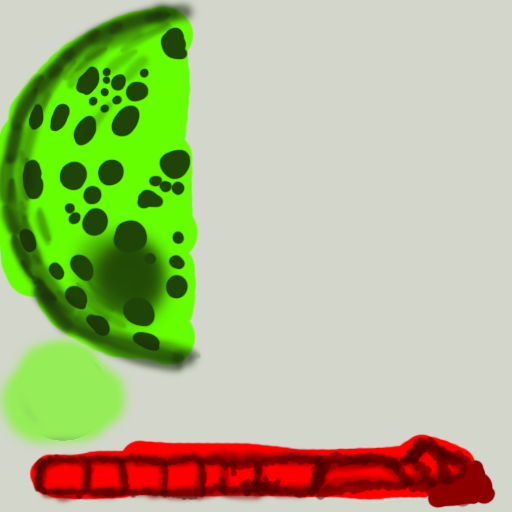
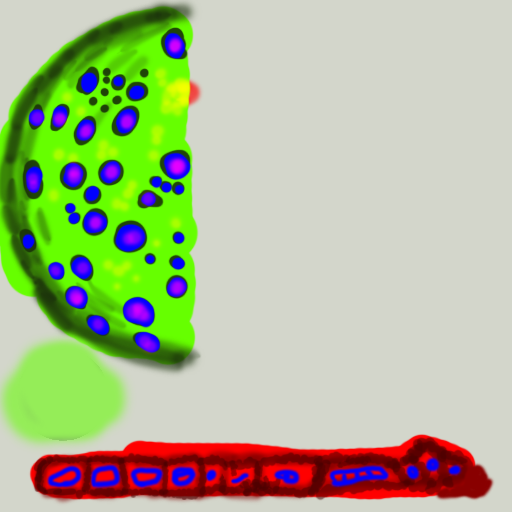
[ld24_evoword] Basic mouths

diff --git a/ld24_evoword/evoword_game.cpp b/ld24_evoword/evoword_game.cpp
@@ -72,6 +72,8 @@ void EvoWordGame::init()
     m_simpleTex = LoadImagePNG( gameDataFile("", "critter_map.png" ).c_str() );
     m_eyeballTex = LoadImagePNG( gameDataFile( "", "eyeball.png" ).c_str() );
     
+    m_mouths.push_back( LoadImagePNG( gameDataFile("", "mouth1.png" ).c_str() ));
+    
     // Load font
     m_fontImg = LoadImagePNG( gameDataFile("", "nesfont.png" ).c_str() );
     m_nesFont = makeFont_nesfont_8( m_fontImg.textureId );    
@@ -81,6 +83,8 @@ void EvoWordGame::init()
 
     m_eyelid = load_obj( gameDataFile("", "eyelid.obj" ).c_str()  );
     m_eyeball = load_obj( gameDataFile("", "eyeball.obj" ).c_str()  );
+
+    m_mouthDecal = load_obj( gameDataFile("", "mouthcard.obj" ).c_str()  );
     
 //    setColorConstant( m_cube, vec4f( 1.0, 1.0, 1.0 ) );
     
@@ -94,6 +98,9 @@ void EvoWordGame::init()
 
     m_uLightPos0 = glGetUniformLocation( m_basicShader, "lightPos0" );
     
+    m_decalShader = loadShader( "evoword.Decal" );
+    m_decal_uModelViewProj = glGetUniformLocation( m_decalShader, "matrixPMV");
+
     m_rotate = 0.0;
     
     glEnable( GL_DEPTH_TEST );
@@ -102,6 +109,13 @@ void EvoWordGame::init()
     m_floatyPicked = NULL;
     m_historyRoot = NULL;
     m_historyCurr = NULL;
+ 
+    m_blinkTimeout = 0.0;
+    m_blink = 0.0;
+    
+    m_lookTimeout = 0.0;
+    m_currLook = 0.0;
+    m_targLook = 0.0;
 }
 
 void EvoWordGame::updateSim( float dtFixed )
@@ -167,6 +181,51 @@ void EvoWordGame::updateSim( float dtFixed )
     {
         m_displayedScore--;
     }
+    
+    // Blink update
+    m_blinkTimeout -= dtFixed;
+    if (m_blinkTimeout < 0.0)
+    {
+        m_blinkTimeout = 1.0 + randNormal( 3.0, 1.0 );
+        
+        m_blink = 2.0;
+    }
+
+    
+    if (m_blink > 0.0)
+    {
+        m_blink -= (dtFixed * 15.0); // blink rate
+        if (m_blink < 0.0) m_blink = 0.0;
+    }
+    
+    // Look update
+    m_lookTimeout -= dtFixed;
+    if (m_lookTimeout < 0.0)
+    {
+        m_lookTimeout = 1.0 + randNormal( 2.0, 1.0 );
+        m_targLook = randNormal( 0.0, 30.0 );
+    }
+    
+    if (fabs(m_currLook-m_targLook) > 2.0 )
+    {
+        m_currLook += sgn(m_targLook - m_currLook) * (dtFixed * 100.0); // eye rate
+    }
+    
+    // different camera dist to give the impression
+    // that the creature is growing
+    float targCameraDist = 15.0 - m_currWord.size();
+    if (targCameraDist < 3.0) targCameraDist = 3.0;
+
+    if (fabs(m_cameraDist-targCameraDist) > 0.5 )
+    {
+        m_cameraDist += sgn(targCameraDist - m_cameraDist) * (dtFixed * 20.0); // zoom rate
+    }
+    else
+    {
+        m_cameraDist = targCameraDist;   
+    }
+    
+    
 }
 
 void EvoWordGame::updateFree( float dtRaw )
@@ -182,10 +241,12 @@ void EvoWordGame::redraw()
     // 3d stuff    
     glhPerspectivef2( m_proj, 40.0, 800.0/600.0, 0.1, 1000.0 );
 
-    matrix4x4f xlate, rot;
-    xlate.Translate( 0.0, -0.3, -5.0 );
+    
+    matrix4x4f xlate, rot, rot2;    
+    xlate.Translate( 0.0, -0.3, -m_cameraDist );
     rot.RotateY( m_rotate );
-    m_modelview = rot * xlate;
+    rot2.RotateX( 10.0 * (M_PI/180.0));
+    m_modelview = (rot*rot2) * xlate;
     
     m_modelviewProj = m_modelview * m_proj;
 
@@ -247,7 +308,7 @@ void EvoWordGame::mouseButton( SDL_MouseButtonEvent &btnEvent )
                 printf("ydist %f\n", fabs(m_floatyPicked->m_pos.y - 100) );
             
             const float letterDist = 10.0;
-            const float checkTime = 2.0;
+            const float checkTime = 0.3;
             
             if ((m_checkWordTimeleft<=0.0) && (m_floatyPicked) && (fabs(m_floatyPicked->m_pos.y - 100) < 10))
             {
@@ -445,6 +506,11 @@ void EvoWordGame::_draw3d()
                 m_creature.m_colorScheme.m_colorMineral1.y,
                 m_creature.m_colorScheme.m_colorMineral1.z );
 
+    glUniform3f( m_uColorAccent, 
+                m_creature.m_colorScheme.m_colorAccent.x,
+                m_creature.m_colorScheme.m_colorAccent.y,
+                m_creature.m_colorScheme.m_colorAccent.z );
+
     
     glActiveTexture(GL_TEXTURE0 );
     glBindTexture( GL_TEXTURE_2D, m_simpleTex.textureId );
@@ -454,6 +520,11 @@ void EvoWordGame::_draw3d()
     
     vec3f lightPos( 1.0, 1.0, 1.0);
     lightPos.Normalize();
+    
+    matrix4x4f lightRot;
+    lightRot.RotateY( -m_rotate );
+    lightPos = lightPos * lightRot;
+    
     glUniform3f( m_uLightPos0, lightPos.x, lightPos.y, lightPos.z );
     
     // Draw something    
@@ -461,7 +532,15 @@ void EvoWordGame::_draw3d()
     
     // Draw eyeballs
     drawCreatureEyelids();
+    
+    glUseProgram( m_decalShader );
     drawCreatureEyes();
+    
+    // draw mouth
+    glUniformMatrix4fv( m_decal_uModelViewProj, 1, 0, (GLfloat*)(&m_modelviewProj)  );
+    
+    glBindTexture( GL_TEXTURE_2D, m_mouths[0].textureId );
+    _drawMesh( m_mouthDecal );
 }
 
 // Draw 2D stuff    
@@ -548,7 +627,10 @@ void EvoWordGame::_draw2d()
             m_nesFont->setColor(1.0, 1.0, 1.0, 1.0);                        
         }
         m_nesFont->drawString( 650, 580, buff );    
-
+        
+        sprintf( buff, "%f", m_currLook );
+        m_nesFont->drawString( 600, 550, buff );    
+        
         // draw saved creatures
         m_nesFont->setColor(1.0, 1.0, 0.0, 1.0);                        
         int currY = 580;
@@ -621,6 +703,22 @@ void EvoWordGame::_draw2d()
 
 void EvoWordGame::drawCreatureEyelids()
 {
+    // blink
+    float blink = 0.0;
+    if (m_blink > 0.0)
+    {
+        if (m_blink > 1.0)
+        {
+            blink = 1.0 - (m_blink - 1.0);
+        }
+        else 
+        {
+            blink = m_blink;
+        }
+        blink *= 45.0;
+    }
+
+    
     // draw eyelids with the current creature shader
     matrix4x4f xlate, rot, scl, localmv;
     scl.Scale(0.2, 0.2, 0.2 );
@@ -628,7 +726,7 @@ void EvoWordGame::drawCreatureEyelids()
     {
         xlate.Translate( 0.45 * (i==0?-1:1), 0.78, 0.55 );
         
-        rot.RotateX( -45.0 * (M_PI/180.0) );
+        rot.RotateX( -(45.0 - blink) * (M_PI/180.0) );
     //    rot.RotateX( m_rotate );
         localmv = (scl * rot * xlate) * m_modelview;
         
@@ -637,8 +735,10 @@ void EvoWordGame::drawCreatureEyelids()
         
         glUniformMatrix4fv( m_uModelViewProj, 1, 0, (GLfloat*)(&mvp)  );        
         _drawMesh( m_eyelid );
-
-        rot.RotateX( -135.0 * (M_PI/180.0) );
+        
+        // bottom eyelid
+        xlate.Translate( 0.45 * (i==0?-1:1), 0.77, 0.55 );
+        rot.RotateX( -(135.0 + blink) * (M_PI/180.0) );
         localmv = (scl * rot * xlate) * m_modelview;
         mvp = localmv * m_proj;
         
@@ -650,24 +750,26 @@ void EvoWordGame::drawCreatureEyelids()
 
 void EvoWordGame::drawCreatureEyes()
 {
-    // Turn off shader for eyes
+    // TODO: Turn off shader for eyes
     
     glBindTexture( GL_TEXTURE_2D, m_eyeballTex.textureId );
     
-    matrix4x4f xlate, rot, scl, localmv;
+    matrix4x4f xlate, rot, rot2, scl, localmv;
     scl.Scale(0.2, 0.2, 0.2 );
     for (int i=0; i < 2; i++)
     {
         xlate.Translate( 0.45 * (i==0?-1:1), 0.78, 0.55 );
+
+        rot2.RotateY( m_currLook * (M_PI/180.0) );
         
         rot.RotateX( 90.0 * (M_PI/180.0) );
         //    rot.RotateX( m_rotate );
-        localmv = (scl * rot * xlate) * m_modelview;
+        localmv = (scl * rot * rot2 * xlate) * m_modelview;
         
         matrix4x4f mvp;
         mvp = localmv * m_proj;
         
-        glUniformMatrix4fv( m_uModelViewProj, 1, 0, (GLfloat*)(&mvp)  );        
+        glUniformMatrix4fv( m_decal_uModelViewProj, 1, 0, (GLfloat*)(&mvp)  );        
         _drawMesh( m_eyeball );
     }
     
@@ -754,6 +856,8 @@ void EvoWordGame::startGame()
     
     m_score = 0;
     m_displayedScore = 0;
+    
+    m_cameraDist = 30.0;
 }
 
 void EvoWordGame::initCreatureFragments()
@@ -775,7 +879,7 @@ void EvoWordGame::initCreatureFragments()
 
 }
 
-void EvoWordGame::updateCreatureFrags( )
+void EvoWordGame::updateCreatureFrags()
 {
     // just update the positions of the creature's DNA
     // target fragments (letters)
@@ -887,6 +991,19 @@ void EvoWordGame::saveCreature( bool pickNow )
 void EvoWordGame::drawTree()
 {
 }
+
+void EvoWordGame::saveCurrentPalette()
+{
+    FILE *fp = fopen( gameDataFile("", "palettes.txt" ).c_str(), "a"  );
+    
+//    fprintf( fp, "%f %f %f %f %f %f 
+}
+
+void EvoWordGame::loadPalettes()
+{
+    
+}
+
 
 #pragma mark - Word Stuff
 

diff --git a/ld24_evoword/evoword_game.h b/ld24_evoword/evoword_game.h
@@ -91,6 +91,9 @@ protected:
     void drawCreatureEyes();
     void drawCreatureEyelids();
     
+    void saveCurrentPalette();
+    void loadPalettes();
+    
 private:
     // The font
     PNGImage m_fontImg;
@@ -101,6 +104,10 @@ private:
     GLint m_basicShader;
     PNGImage m_simpleTex;
     PNGImage m_eyeballTex;
+    GLint m_decalShader;
+
+    QuadBuff<DrawVert> *m_mouthDecal;
+    std::vector<PNGImage> m_mouths;
     
     // camera stuff
     matrix4x4f m_proj;
@@ -133,6 +140,10 @@ private:
     std::vector<std::string> m_usedWords;
 
     std::vector<Creature> m_savedCreatures;
+    
+    // creature palettes
+    std::vector<Pally> m_creaturePalettes;
+    
 
     HistoryNode *m_historyRoot;
     HistoryNode *m_historyCurr;
@@ -143,12 +154,24 @@ private:
     std::string m_currWord;
     Creature m_creature;
     
+    float m_blinkTimeout;
+    float m_blink;
+    
+    float m_cameraDist;
+    
+    // look angle
+    float m_targLook;
+    float m_currLook;
+    float m_lookTimeout;
+    
     // Shader params
     GLint m_uModelViewProj;
     GLint m_uColorBase;
     GLint m_uColorAlt;
     GLint m_uColorAccent;
     GLint m_uLightPos0;
+    
+    GLint m_decal_uModelViewProj;
     
     int m_gamestate;
 };

diff --git a/minibasecode/useful.h b/minibasecode/useful.h
@@ -26,6 +26,11 @@ float randNormal();
 float randNormal( float mean, float stddev );
 
 // ==============================
+//  general mathy stuff
+// ==============================
+float sgn( float n );
+
+// ==============================
 //  GL camera math
 // ==============================
 

diff --git a/minibasecode/useful.cpp b/minibasecode/useful.cpp
@@ -96,4 +96,9 @@ void glhPerspectivef2(matrix4x4f &matrix, float fovyInDegrees, float aspectRatio
     glhFrustumf2(matrix, -xmax, xmax, -ymax, ymax, znear, zfar);
 }
 
+float sgn( float n )
+{
+    return (n<0)?-1.0:1.0;
+}
+
 
